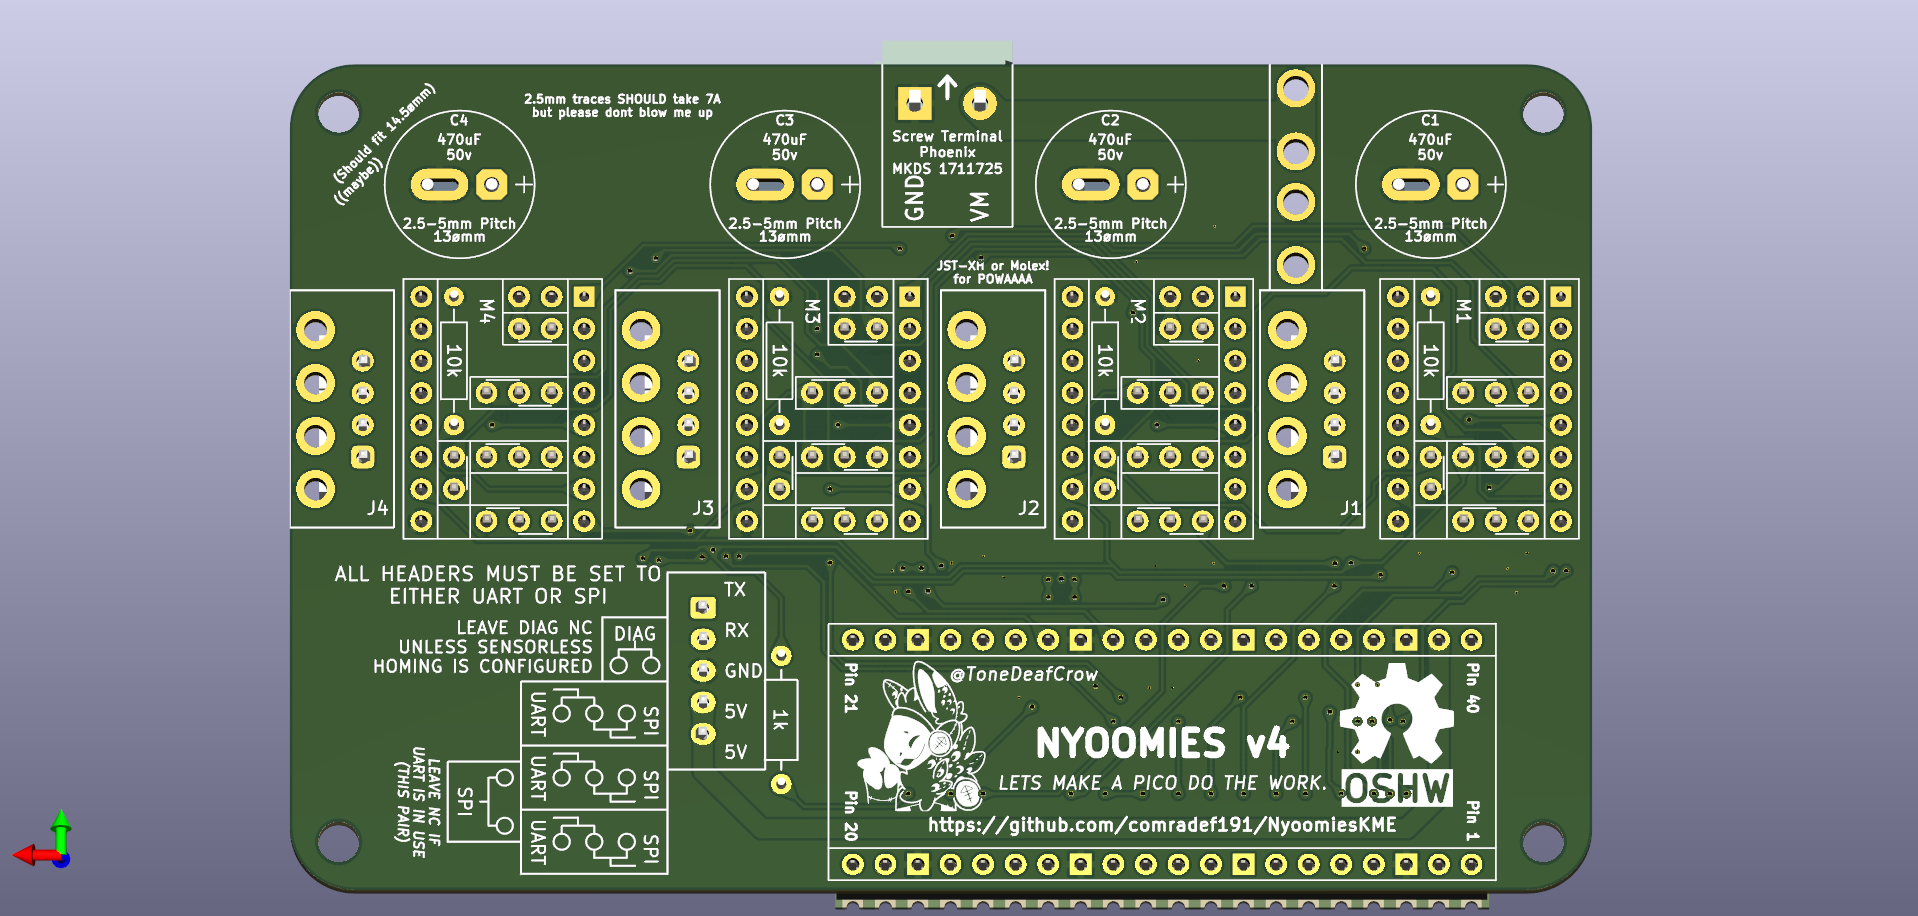
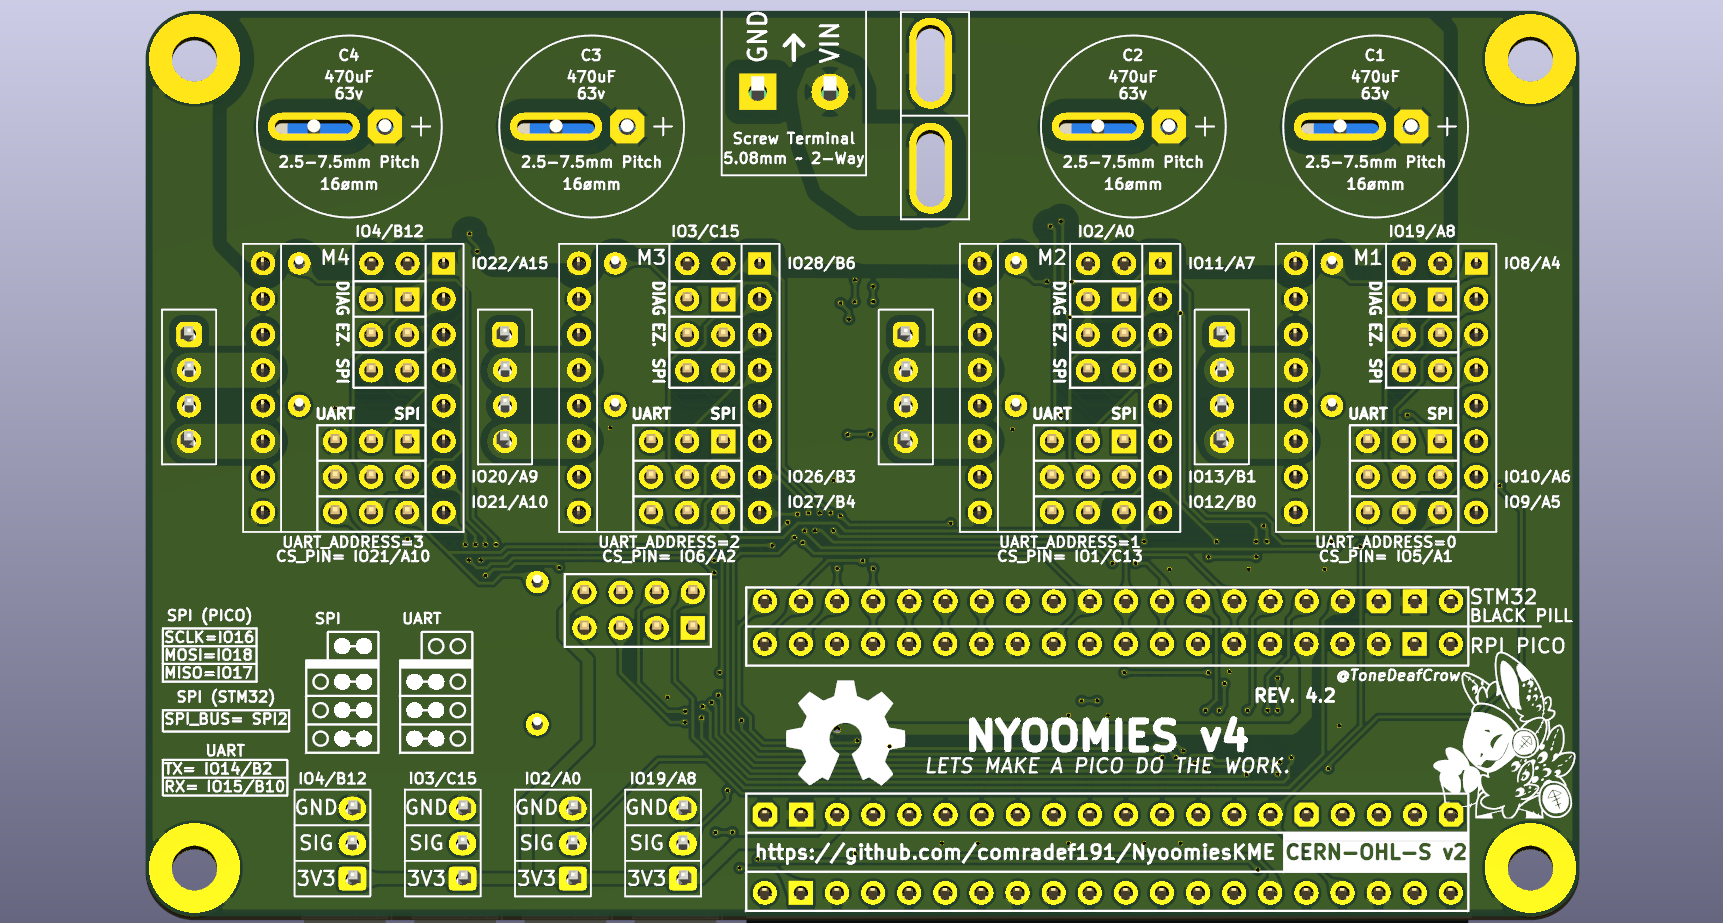
Updates BoM & images within ReadMe

diff --git a/README.md b/README.md
@@ -1,32 +1,35 @@
 # NyoomiesKME
-A pico-powered expansion board for Klipper, with support for four motors running in SPI or UART, and ability to run higher currents than most mainboards.
-![NyoomiesR0](https://github.com/comradef191/NyoomiesKME/assets/62987296/98f0e227-be30-455b-b426-8ef2e2fe445d)
-
-
+A Pico or BlackPill powered expansion board for Klipper, with support for four motors running in SPI or UART, and ability to run higher currents than most mainboards.
+![NyoomiesAssembled](Gallery/NyoomiesR0.jpg)
+![NyoomiesRenderFront](Gallery/Front.png)
+![NyoomiesRenderBack](Gallery/Back.png)
 
 Driver Configuration Jumpers:
-![image](https://github.com/comradef191/NyoomiesKME/assets/62987296/72f3a936-a4a6-465a-b728-547d606532a6)
+
+![image](Gallery/JumperConfig.png)
 
 
 # Bill Of Materials
 
-|Component|No. Needed|Cost (Total)|Comment|CPC URL|
+|Component|No. Needed|Cost (Total)|Comment|Sourcing URL|
 |---------|----------|------------|-------|-------|
-|5.08mm Screw Terminal|1|£0.19|Power Input|https://cpc.farnell.com/multicomp/mc000034/terminal-block-wire-to-brd-2pos/dp/CN22057|
-|Automotive Mini-Blade Fuse Holder|1|£0.76|Takes ATO Fuses|https://cpc.farnell.com/unbranded/mccq-122/fuseholder-pcb-mount-mini-blade/dp/FF02092|
-|63v 470uF Capacitor|4|£3.08|Can be substituted with any cap up to 17mmø cap w/ up to 7.5mm pitch, ie a smaller 30v cap for 24v-only systems|https://cpc.farnell.com/panasonic/eca1jm471/capacitor-470uf-63v/dp/CA07285|
-|1x4 JST-XH Connector|4|£0.44|Motor Connectors|https://cpc.farnell.com/jst-japan-solderless-terminals/b4b-xh-a-lf-sn/header-vertical-4way/dp/CN14255|
-|1x3 JST-XH Connector|4|£0.40|Endstop Connectors|https://cpc.farnell.com/jst-japan-solderless-terminals/b3b-xh-a-lf-sn/header-vertical-3way/dp/CN14254?st=header,%20vertical,%203%20way%20-%20%20b4b-xh-a%20(lf)(sn)|
-|1x20 2.54 Socket|2|£0.94|MCU Socket|https://cpc.farnell.com/multicomp/2212s-20sg-85/socket-pcb-1-row-20way/dp/CN14539|
-|1x8 2.54 Socket|8|£1.73|StepStick Socket|https://cpc.farnell.com/multicomp/2212s-08sg-85/socket-pcb-1-row-8way/dp/CN14534|
-|1x2 2.54 Socket|8|£0.76|Diag Pins Socket|https://cpc.farnell.com/multicomp/2212s-02sg-85/socket-pcb-1-row-2way/dp/CN14529|
-|1x20 2.54 Header|3|£0.60|Cut As Needed|https://cpc.farnell.com/multicomp/mc34739/header-1-row-vert-20way/dp/CN14497|
+|5.08mm Screw Terminal|1|£0.72|Power Input|https://www.lcsc.com/product-detail/Screw-span-style-background-color-ff0-terminal-span_MAX-MX129-5-08-02P-GN01-Cu-Y-A_C5188485.html|
+|Automotive Mini-Blade Fuse Holder|1|£0.99|Takes ATO Fuses|https://aliexpress.com/item/4000541087990.html?|
+|63v 470uF Capacitor|4|£1.76|_Can substitue with up to 17mmø diameter cap w/ up to 7.5mm pitch_|https://www.lcsc.com/product-detail/Aluminum-Electrolytic-Capacitors-Leaded_PANASONIC-ECA1JM471_C5362346.html|
+|1x4 JST-XH Connector|4|£0.46|Motor Connectors|https://www.lcsc.com/product-detail/Wire-To-Board-Wire-To-Wire-Connector_DEALON-XH-D-4A_C5160913.html|
+|1x3 JST-XH Connector|4|£0.36|Endstop Connectors|https://www.lcsc.com/product-detail/Wire-To-Board-Wire-To-Wire-Connector_DEALON-XH-D-3A_C5160912.html|
+|1x20 2.54 Socket|2-4|£0.47|MCU Socket|https://www.lcsc.com/product-detail/Female-Headers_Shenzhen-Kinghelm-Elec-KH-2-54FH-1X20P-H8-5_C2905423.html|
+|1x8 2.54 Socket|8|£0.42|StepStick Socket|https://www.lcsc.com/product-detail/Female-Headers_Liansheng-FH-00882_C2685213.html|
+|1x2 2.54 Socket|8|£0.56|Diag Pins Socket|https://www.lcsc.com/product-detail/Female-Headers_JILN-22850102ANG1SYA02_C429966.html|
+|2x4 2.54 Header|1|£0.46|STM32 I/O, Optional|https://www.lcsc.com/product-detail/Pin-Headers_Liansheng-PH-00530_C2685166.html|
+|2x3 2.54 Header|8|£0.75|Driver Jumper Pins|https://www.lcsc.com/product-detail/Pin-Headers_Liansheng-PH-01291_C2685197.html|
+|1x3 2.54 Header|4|£0.36|Driver Jumper Pins|https://www.lcsc.com/product-detail/Pin-Headers_Liansheng-PH-00014_C2685130.html|
 |1k Resistor (THT)|1|£0.01|UART TX||
 |10k Resistor (THT)|4|£0.04|STEP Pin pulldown||
 |Raspberry Pi Pico, or...|1|£1.99|MCU|https://www.aliexpress.com/item/1005003708090298.html|
 |STM32F401 BlackPill|1|£1.96|MCU|https://www.aliexpress.com/item/4001062944589.html|
 
-Total (Excluding PCB & Shipping): £10.94
+Total (_Excluding PCB, MCU, & Shipping_): £6.94
 
 
 # LICENSE
